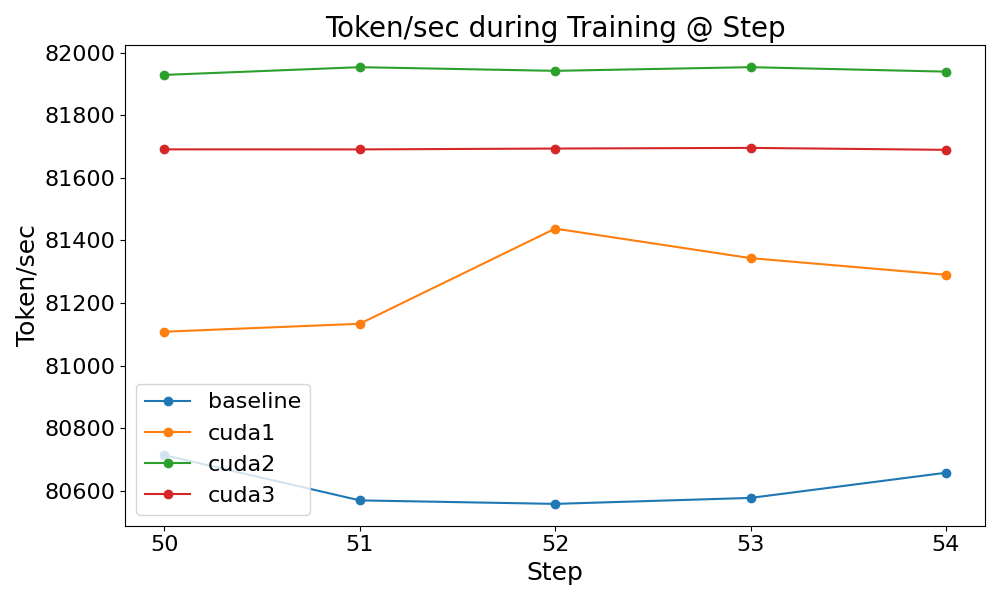
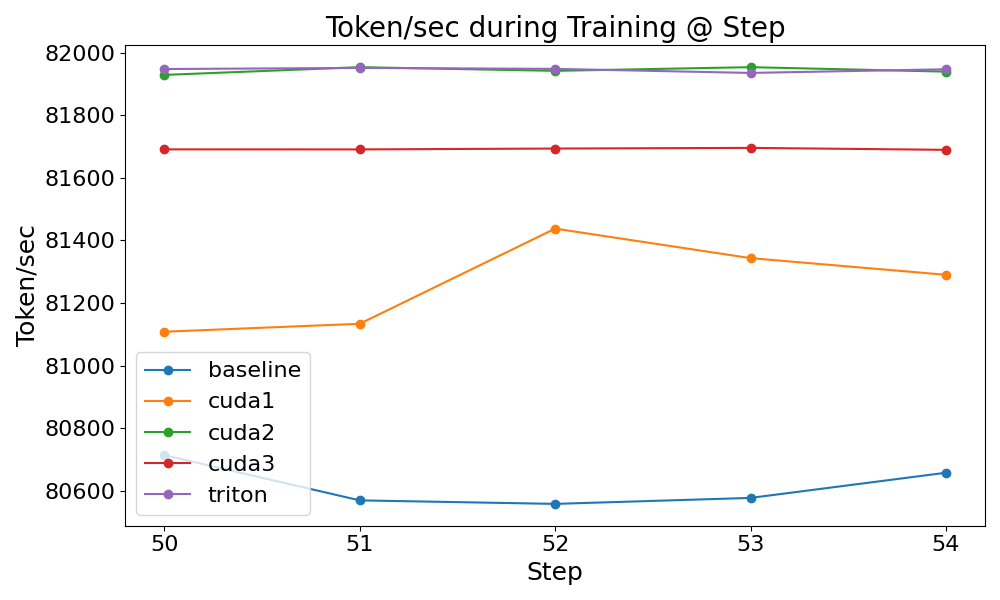
add triton execution log

diff --git a/scripts/tokpersec.py b/scripts/tokpersec.py
@@ -20,6 +20,7 @@ files = {
     "cuda1": "/home/min/a/kadhitha/scratch-space/workspace/chatgpt2-rotary-embed/logs/cuda1.txt",
     "cuda2": "/home/min/a/kadhitha/scratch-space/workspace/chatgpt2-rotary-embed/logs/cuda2.txt",
     "cuda3": "/home/min/a/kadhitha/scratch-space/workspace/chatgpt2-rotary-embed/logs/cuda3.txt",
+    "triton": "/home/min/a/kadhitha/scratch-space/workspace/chatgpt2-rotary-embed/logs/triton.txt",
 }
 
 # Extract data from each file
@@ -38,7 +39,8 @@ for label in data:
     data[label]["speedup"] = data[label]["median"] / baseline_median
     
 print("Speedup values:")
-
+for label in data:
+    print(f"{label}: {data[label]['speedup']:.4f}x")
 
 # Plotting
 plt.figure(figsize=(10, 6))
